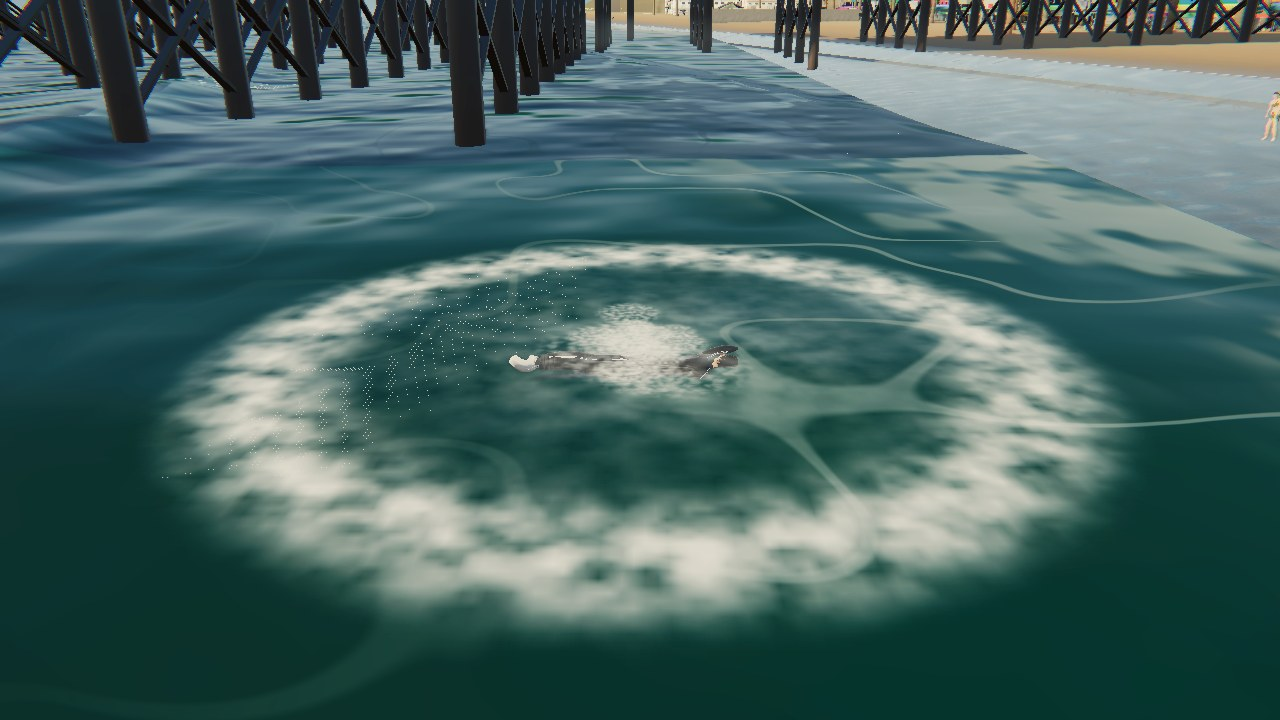
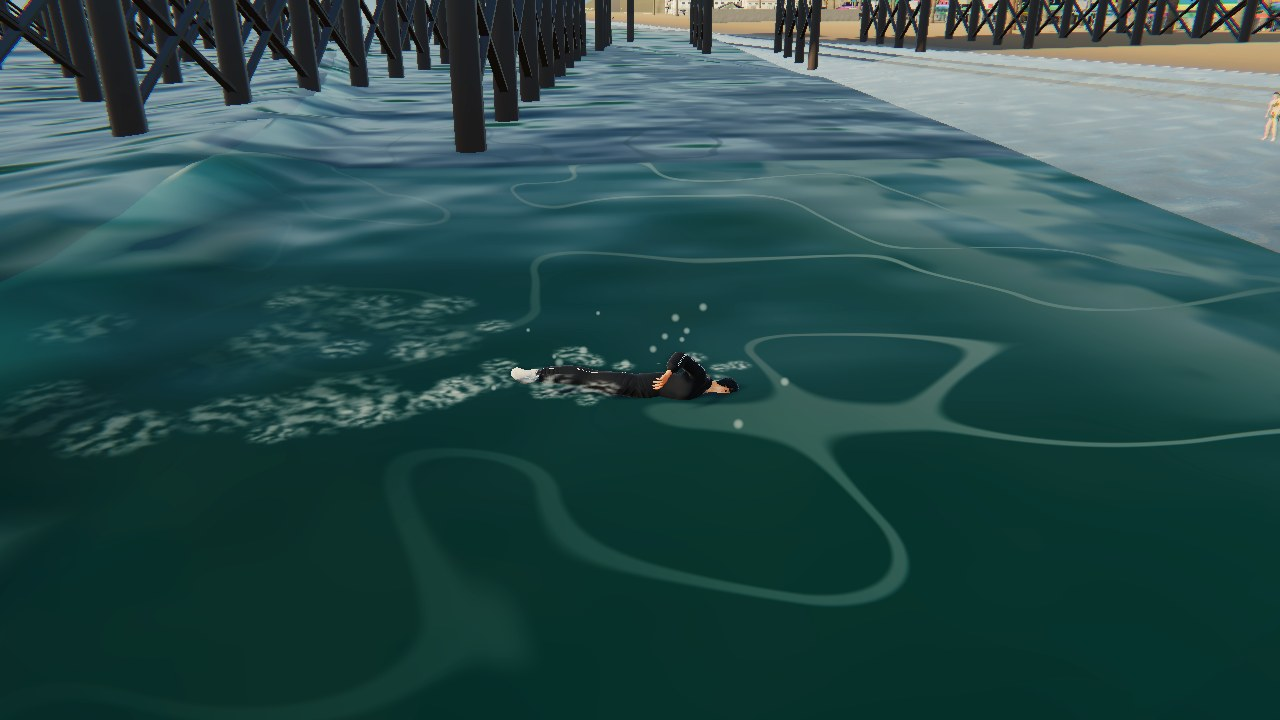
Swimming stills: 02, 04, 05 re-shot after the lead's review

diff --git a/README.md b/README.md
@@ -7,14 +7,15 @@ fixed camera frames him). Not Forward+: the lighting is the flat Compatibility p
 - `01_before_sea_1530.jpg` - BEFORE (`SWIMMING=0`): off Rando Pier the hero runs on the sea, which
   was a floor (the city's ground box under the water).
 - `02_after_crawl_1530.jpg` - the front crawl at the surface, from above: the body prone and awash,
-  the wake's foam at his chest and the ring of foam his entry left.
+  an arm recovering over his back, drops off the stroke, a broken lace of wake trailing off his
+  shoulders (re-shot after the lead's review: the old 6-8 m foam ring is gone).
 - `03_after_tread_1530.jpg` - treading water under the pier, head and shoulders out, riding the
   drawn swell (SeaSurface: the ocean shader's Gerstner height in GDScript).
 - `04_after_underwater_1530.jpg` - under the water, 3 m down, looking up at him gliding just
   under the surface: the underwater pass (absorbed red-first by each pixel's real distance, fogged
   into the water's colour) and the pier's piles fading out.
 - `05_after_dolphin_1530.jpg` - the boost at the surface: porpoising out of the water like a
-  dolphin, streamlined, spray off him.
+  dolphin, streamlined, spray off him, a small patch of white where he went in (re-shot).
 - `06_after_park_pool_1530.jpg` - the front crawl in a rec park's 25 m pool, held in its tank.
 - `07_after_macarthur_lake_1530.jpg` - treading water in MacArthur Park's lake.
 - `08_after_dolphin_1840.jpg` - a dolphin leap's splash at dusk, the pier's lamps in the water.
